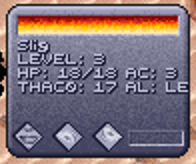
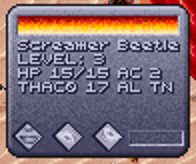
Look box: no colons, MR beside LEVEL, AC only for the same creature
- The Look box lines go back to no colons: HP 15/15 AC 2, THAC0 17 AL TN.
- Magic resistance moves beside the game's LEVEL (LEVEL: 3   MR 30): a
  line starting with 01h is drawn by DSCLOG on LEVEL's row at x 60,
  without a row of its own (signature DSCLOGvX).
- The Look box no longer uses an AC worked out for another creature in
  the same record: a fight soon after another (the arena's first, after
  the opening one) showed a Slig with the opening Defiler's AC -9.
- Checked in the game: a beetle's box with and without MR.

Claude-Session: https://claude.ai/code/session_01BNiWkhyZSJPYsN3zRrweVp

diff --git a/darksun-companion/tests/test_dicelog.py b/darksun-companion/tests/test_dicelog.py
@@ -324,7 +324,7 @@ class AttackTests(unittest.TestCase):
         m[kinds + monsters.KIND_CLASS_OFF + 3] = 11
         struct.pack_into("<2H", m, kinds + monsters.CLASS_MASKS_OFF + 11 * monsters.CLASS_SIZE, 0x38, 0xB200)
         m[kinds + monsters.CLASS_PERCENTS_OFF + 11 * monsters.CLASS_SIZE + 1] = 100
-        log.last_ac[STALKER] = 4
+        log.last_ac[STALKER], log._ac_whose[STALKER] = 4, "Mountain Stalker"
         struct.pack_into("<H", m, HDR + dicelog.TSR_HDR_OFF, 0)
         struct.pack_into("<HH", m, HDR + dicelog.TSR_LOOK_OFF, 0x300, 0x500)
         log.set_monster_info(True)
@@ -334,11 +334,10 @@ class AttackTests(unittest.TestCase):
         lines = log._answer_look()
         self.assertEqual(struct.unpack_from("<H", m, HDR + dicelog.TSR_LOOK_REPLY)[0], 1)
         self.assertEqual(bytes(m[HDR + 0x300:HDR + 0x340]).split(b"\0")[0],
-                         b"HP: 38/60 AC: 4|THAC0: 11 MR: 30|NEEDS +1 WEAPON")
+                         b"\x01MR 30|HP 38/60 AC 4|THAC0 11 AL CE|NEEDS +1 WEAPON")
         whole = bytes(m[HDR + 0x500:HDR + 0x600]).split(b"\0")[0].decode()
         self.assertIn("magic resistance 30 pct", whole)
         self.assertIn("Only +1 or better weapons hurt it.", whole)
-        # (no room for AL: CE after MR 30 in the box: the description has it)
         self.assertEqual(lines[0], "Look: Mountain Stalker: HP 38/60, AC 4, THAC0 11, magic resistance 30%, "
                                    "chaotic evil.")
         self.assertEqual(log._answer_look(), [])  # asked once
@@ -348,19 +347,24 @@ class AttackTests(unittest.TestCase):
         struct.pack_into("<H", m, HDR + dicelog.TSR_LOOK_WHO, 0x29)
         log._look_seq = 4
         self.assertEqual(len(log._answer_look()), 1)
-        self.assertEqual(bytes(m[HDR + 0x300:HDR + 0x340]).split(b"\0")[0], b"HP: 38/60 AC: 4|THAC0: 11 MR: 30")
+        self.assertEqual(bytes(m[HDR + 0x300:HDR + 0x340]).split(b"\0")[0], b"\x01MR 30|HP 38/60 AC 4|THAC0 11 AL CE")
         self.assertEqual(m[HDR + 0x500], 0)
-        # no magic resistance: AL: and its alignment in two letters after THAC0
+        # no magic resistance: nothing beside LEVEL
         m[sheet + game.SHEET_MAGIC_RESISTANCE] = 0
         struct.pack_into("<HH", m, HDR + dicelog.TSR_LOOK_SEQ, 6, 5)
         log._look_seq = 5
         self.assertEqual(log._answer_look(), ["Look: Mountain Stalker: HP 38/60, AC 4, THAC0 11, chaotic evil."])
-        self.assertEqual(bytes(m[HDR + 0x300:HDR + 0x340]).split(b"\0")[0], b"HP: 38/60 AC: 4|THAC0: 11 AL: CE")
+        self.assertEqual(bytes(m[HDR + 0x300:HDR + 0x340]).split(b"\0")[0], b"HP 38/60 AC 4|THAC0 11 AL CE")
         m[sheet + monsters.SHEET_ALIGNMENT] = 0  # (none set: nothing said)
         struct.pack_into("<HH", m, HDR + dicelog.TSR_LOOK_SEQ, 7, 6)
         log._look_seq = 6
         log._answer_look()
-        self.assertEqual(bytes(m[HDR + 0x300:HDR + 0x340]).split(b"\0")[0], b"HP: 38/60 AC: 4|THAC0: 11")
+        self.assertEqual(bytes(m[HDR + 0x300:HDR + 0x340]).split(b"\0")[0], b"HP 38/60 AC 4|THAC0 11")
+        # an AC worked out for another creature in the record (an earlier fight's): the sheet's
+        log._ac_whose[STALKER] = "Defiler"
+        struct.pack_into("<HH", m, HDR + dicelog.TSR_LOOK_SEQ, 8, 7)
+        log._look_seq = 7
+        self.assertEqual(log._answer_look()[0][:41], "Look: Mountain Stalker: HP 38/60, AC 10, ")
         # a party member: nothing to add (the game shows the View Character screen)
         struct.pack_into("<HH", m, HDR + dicelog.TSR_LOOK_SEQ, 2, 1)
         struct.pack_into("<H", m, HDR + dicelog.TSR_LOOK_WHO, 0)

diff --git a/darksun-companion/dscompanion/dicelog.py b/darksun-companion/dscompanion/dicelog.py
@@ -31,7 +31,7 @@ from .guestmem import GuestMemory
 from .textlog import KIND_MESSAGE, KIND_PORTRAIT, KIND_TEXT, Dialogue, DialogueEntry, TextBuffer
 from .tracker import PartyTracker
 
-HDR_SIG = b"DSCLOGvW"
+HDR_SIG = b"DSCLOGvX"
 # DSCLOG's header: the in-game turn summaries (see PROBE_TURN in dos/dsclog.asm)
 TSR_TURN_SEQ, TSR_REPLY_SEQ, TSR_POPUPS, TSR_MSG_OFF, TSR_ENDED, TSR_HDR_OFF = 138, 140, 142, 144, 146, 20
 MSG_SIZE = 900
@@ -312,6 +312,7 @@ class DiceLog:
         self.missed = 0
         self.game: Optional[GameData] = None
         self.last_ac: Dict[int, int] = {}  # creature index -> the AC the game last computed for it
+        self._ac_whose: Dict[int, str] = {}  # ... and the name of the creature it was then
         self.ac_detail: Dict[int, AcDetail] = {}  # creature index -> how that AC was made up
         self._dice: Dict[Tuple[int, int, int, int], List[int]] = {}
         self._pending: List[PendingDice] = []
@@ -672,6 +673,14 @@ class DiceLog:
                 self.game.set_cats_grace(bool(rules & game.RULE_CATS_GRACE))
                 self.game.set_dodge(bool(rules & game.RULE_NO_DOUBLE))
 
+    def monster_ac(self, index: int) -> Optional[int]:
+        """The AC the game last computed for creature INDEX, if it was this creature's: a fight
+        soon after another (no gap in the game's time to tell them apart) hands the earlier
+        one's creature records to new monsters."""
+        if index not in self.last_ac or self._ac_whose.get(index) != self.game.creature_name(index):
+            return None
+        return self.last_ac[index]
+
     def _answer_look(self) -> List[str]:
         """DSCLOG asks about a creature the player looks at in a fight: give the Look box its
         short lines and the whole description, and log it."""
@@ -688,7 +697,7 @@ class DiceLog:
         if index is not None and index >= game.PARTY_SIZE:
             try:
                 tables = monsters.MonsterTables(self.guest.read, self.game.load_seg)
-                short, full = monsters.monster_lines(self.game, tables, index, self.last_ac.get(index))
+                short, full = monsters.monster_lines(self.game, tables, index, self.monster_ac(index))
             except (struct.error, IndexError, ValueError):
                 short, full = [], []
         base = self.tsr_hdr - struct.unpack("<H", self.guest.read(self.tsr_hdr + TSR_HDR_OFF, 2))[0]
@@ -1647,6 +1656,7 @@ class DiceLog:
         target_index = g.combatant_creature(target_combatant)
         if target_index is not None:
             self.last_ac[target_index] = ac
+            self._ac_whose[target_index] = g.creature_name(target_index)
         weapon = g.weapon(item, item_type)
         with_what = f" with {g.weapon_name(weapon)} ({weapon.dice()})" if weapon else ""
         target = g.combatant_name(target_combatant)
@@ -2250,6 +2260,7 @@ class DiceLog:
         ac = e.raw if e.raw < 0x8000 else e.raw - 0x10000
         if index is not None:
             self.last_ac[index] = ac
+            self._ac_whose[index] = self.game.creature_name(index)
             sheet, rec = self.game.sheet(index), self.game.creature(index)
             armour = e.local(-6)
             if len(sheet) >= game.SHEET_SIZE and len(rec) >= game.CREATURE_SIZE and armour is not None:

diff --git a/darksun-companion/dscompanion/monsters.py b/darksun-companion/dscompanion/monsters.py
@@ -60,6 +60,8 @@ SHEET_ALIGNMENT = 0x1A
 LOOK_WIDTH = 15  # the characters a Look box line has room for (NEEDS +2 WEAPON)
 # ... and in pixels: the game's font (RESOURCE.GFF's FONT 100) is 6 wide but for these
 LOOK_PIXELS = 86
+LOOK_SIDE = "\x01"  # (DSCLOG: the line goes on LEVEL's row, to its right, LOOK_SIDE_X = 60 on)
+SIDE_PIXELS = 33  # ... where up to the box's edge
 FONT_WIDTHS = {**{c: 4 for c in " !*+,.:;Ij"}, **{c: 5 for c in "?fhknrstu"}, **{c: 2 for c in "il"},
                **{c: 7 for c in "$^|"}}
 
@@ -236,15 +238,16 @@ def monster_lines(gd, tables: MonsterTables, creature: int, ac: Optional[int]) -
     d = tables.defences(kind, undead)
     ac_text = str(ac) if ac is not None else str(struct.unpack_from("b", sheet, 0x27)[0])
     alignment = ALIGNMENTS.get(sheet[SHEET_ALIGNMENT])
-    # labelled as the box's LEVEL: 9 is, squeezed when a line would run past the box's edge;
-    # the alignment only where it fits (the description always has it)
-    second = f"THAC0: {thac0}" + (f" MR: {mr}" if mr else "")
-    if alignment and look_pixels(f"{second} AL: {alignment[0]}") <= LOOK_PIXELS:
-        second += f" AL: {alignment[0]}"
-    second = look_fit(second, second.replace(": ", ":"))
-    first = look_fit(f"HP: {hp}/{max_hp} AC: {ac_text}", f"HP:{hp}/{max_hp} AC:{ac_text}",
-                     f"HP{hp}/{max_hp} AC{ac_text}")
+    # magic resistance beside the game's LEVEL; the alignment after THAC0 where it fits (the
+    # description always has it); a line squeezed when it would run past the box's edge
+    second = f"THAC0 {thac0}"
+    if alignment and look_pixels(f"{second} AL {alignment[0]}") <= LOOK_PIXELS:
+        second += f" AL {alignment[0]}"
+    first = look_fit(f"HP {hp}/{max_hp} AC {ac_text}", f"HP{hp}/{max_hp} AC{ac_text}")
     short = [first, second]
+    if mr:
+        side = f"MR {mr}" if look_pixels(f"MR {mr}") <= SIDE_PIXELS else f"MR{mr}"
+        short.insert(0, LOOK_SIDE + side)
     line = short_line(d)
     if line:
         short.append(line)

diff --git a/darksun-companion/tests/test_monsters.py b/darksun-companion/tests/test_monsters.py
@@ -102,15 +102,11 @@ class LookWidthTests(unittest.TestCase):
 
     def test_widths(self):
         self.assertEqual(M.look_pixels("NEEDS +2 WEAPON"), 84)
-        self.assertEqual(M.look_pixels("THAC0: 17 AL: LE"), 86)
+        self.assertEqual(M.look_pixels("THAC0 17 AL LE"), 78)
 
     def test_a_long_line_is_squeezed(self):
-        self.assertEqual(M.look_fit("HP: 18/18 AC: 3", "HP:18/18 AC:3"), "HP: 18/18 AC: 3")
-        self.assertEqual(M.look_fit("HP: 120/120 AC: 5", "HP:120/120 AC:5", "HP120/120 AC5"),
-                         "HP:120/120 AC:5")
-        self.assertEqual(M.look_fit("HP: 120/120 AC: -2", "HP:120/120 AC:-2", "HP120/120 AC-2"),
-                         "HP120/120 AC-2")
-
+        self.assertEqual(M.look_fit("HP 18/18 AC 3", "HP18/18 AC3"), "HP 18/18 AC 3")
+        self.assertEqual(M.look_fit("HP 120/120 AC -2", "HP120/120 AC-2"), "HP120/120 AC-2")
 
 if __name__ == "__main__":
     unittest.main()

diff --git a/darksun-companion/README.md b/darksun-companion/README.md
@@ -1301,27 +1301,25 @@ game calls those itself, looking for sound drivers.)
 
 In a fight, Look at a monster (right-click until the cursor is the Look icon,
 then click the monster) and the game's small box, under its name and level,
-now also shows its hit points and AC (`HP: 18/18 AC: 3`), its THAC0, magic
-resistance and alignment (`THAC0: 17 MR: 30`, `THAC0: 17 AL: LE`), labelled as
-the box's own `LEVEL: 3` is, and its most important defence: `NEEDS +1 WEAPON`,
+now also shows its hit points and AC (`HP 15/15 AC 2`), its THAC0 and
+alignment (`THAC0 17 AL TN`), its magic resistance beside its level
+(`LEVEL: 3   MR 30`), and its most important defence: `NEEDS +1 WEAPON`,
 `IMM FIRE COLD`, `NO CRUSH`, `HALF FROM WPNS` or `UNDEAD`. The alignment is in
-two letters (`LG`, `LN`, `LE`, `NG`, `TN`, `NE`, `CG`, `CN`, `CE`) where the
-line has room for it; with magic resistance it hasn't, and the description
-below and the dice log name it. (A line that would run past the box's edge,
-such as a monster's with over 100 HP, loses the spaces after its colons, then
-its colons.) Its own status lines (casting,
-charmed, held...) follow in any row left. When there's more to say, closing
+two letters: `LG`, `LN`, `LE`, `NG`, `TN`, `NE`, `CG`, `CN` or `CE`. (A line
+that would run past the box's edge, such as a monster's with over 100 HP, loses
+its spaces.) Its own status lines (casting, charmed, held...) follow in any
+row left. When there's more to say, closing
 the box shows everything in the game's dialogue window: the weapons it needs,
 the damage it's immune to or takes half of, spells that don't work on it, and
 what its hits do besides damage. The dice log gets the same lines (`Look:
 ...`). Untick **Describe monsters when you Look at them in a fight** on the
 Options tab to turn this off.
 
-![The Look box on a Slig in the arena: LEVEL: 3, then HP: 18/18 AC: 3 and THAC0: 17 AL: LE added](docs/look-box.png)
+![The Look box on a Screamer Beetle in the arena: LEVEL: 3, then HP 15/15 AC 2 and THAC0 17 AL TN added](docs/look-box.png)
 
-(The Sligs in the arena's first fight, like the people in the early fights,
-have no special defences, so the box shows just the numbers and the
-alignment.)
+(The arena's first monsters, like the people in the early fights, have no
+magic resistance or special defences, so the box shows just the numbers and
+the alignment.)
 
 How: the patched game calls the helper (`INT F5h`) where the box has drawn its
 first status rows; the helper asks the Ledger (as for each turn's rolls), and
@@ -2578,7 +2576,7 @@ After changing `dos/dsclog.asm`, rebuild the helper with
 nasm -f bin -o dos/DSCLOG.EXE dos/dsclog.asm
 ```
 
-The header's signature (`DSCLOGvW` now) goes up whenever the helper and the
+The header's signature (`DSCLOGvX` now) goes up whenever the helper and the
 Ledger must change together (`HDR_SIG` in `dscompanion/dicelog.py`), so a
 Ledger never talks to an older helper.
 

diff --git a/CHANGELOG.md b/CHANGELOG.md
@@ -7,12 +7,12 @@ Release **1.0.0** is pull requests #1 to #13; its notes are in
 ## Pull request #17 (in review)
 
 **Changed**
-- **A monster's alignment in the Look box:** `THAC0: 17 AL: LE`, the
-  alignment in two letters where the line has room (with magic resistance it
-  hasn't); the description in the dialogue window and the dice log's `Look:`
-  line name it in words. The box's lines are labelled with colons as the
-  game's `LEVEL:` is (`HP: 18/18 AC: 3`, `MR: 30`), and measured in the game
-  font's own widths so none runs past the box's edge.
+- **A monster's alignment in the Look box:** `THAC0 17 AL TN`, the alignment
+  in two letters; the description in the dialogue window and the dice log's
+  `Look:` line name it in words. Magic resistance moves beside the game's
+  level (`LEVEL: 3   MR 30`), drawn by DSCLOG on the game's own row. Lines are
+  measured in the game font's widths, and one that would run past the box's
+  edge (over 100 HP) loses its spaces.
 - **The Options tab's sections open and close:** each group of switches is
   under a heading to click (or Tab to and press Space or Enter), so the tab
   is short; which are open is remembered.
@@ -57,6 +57,10 @@ Release **1.0.0** is pull requests #1 to #13; its notes are in
   multi-class thief's classes, as the game's quests are).
 
 **Fixed**
+- The Look box no longer shows an AC the Ledger worked out for another
+  creature: the arena's first fight comes too soon after the opening one to
+  tell them apart by the game's time, and a Slig showed the opening fight's
+  Defiler's AC -9.
 - The Ledger's new item pictures no longer wipe an item's spell: changing an
   icon cleared four bytes of the item where the game's picture cache is two.
 
